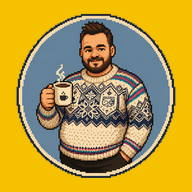
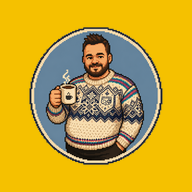
Add files via upload

diff --git a/sw.js b/sw.js
@@ -1,16 +1,20 @@
-const CACHE = 'chriscalendar-v2';
-const FILES = ['/', '/index.html', '/manifest.json', '/icon.svg'];
+const CACHE = 'chriscalendar-v3';
 
 self.addEventListener('install', e => {
-  e.waitUntil(caches.open(CACHE).then(c => c.addAll(FILES)));
   self.skipWaiting();
 });
 
 self.addEventListener('activate', e => {
-  e.waitUntil(caches.keys().then(keys => Promise.all(keys.filter(k=>k!==CACHE).map(k=>caches.delete(k)))));
+  e.waitUntil(caches.keys().then(keys => Promise.all(keys.map(k=>caches.delete(k)))));
   self.clients.claim();
 });
 
 self.addEventListener('fetch', e => {
-  e.respondWith(caches.match(e.request).then(r => r || fetch(e.request)));
+  e.respondWith(
+    fetch(e.request).then(response => {
+      const clone = response.clone();
+      caches.open(CACHE).then(c => c.put(e.request, clone));
+      return response;
+    }).catch(() => caches.match(e.request))
+  );
 });
